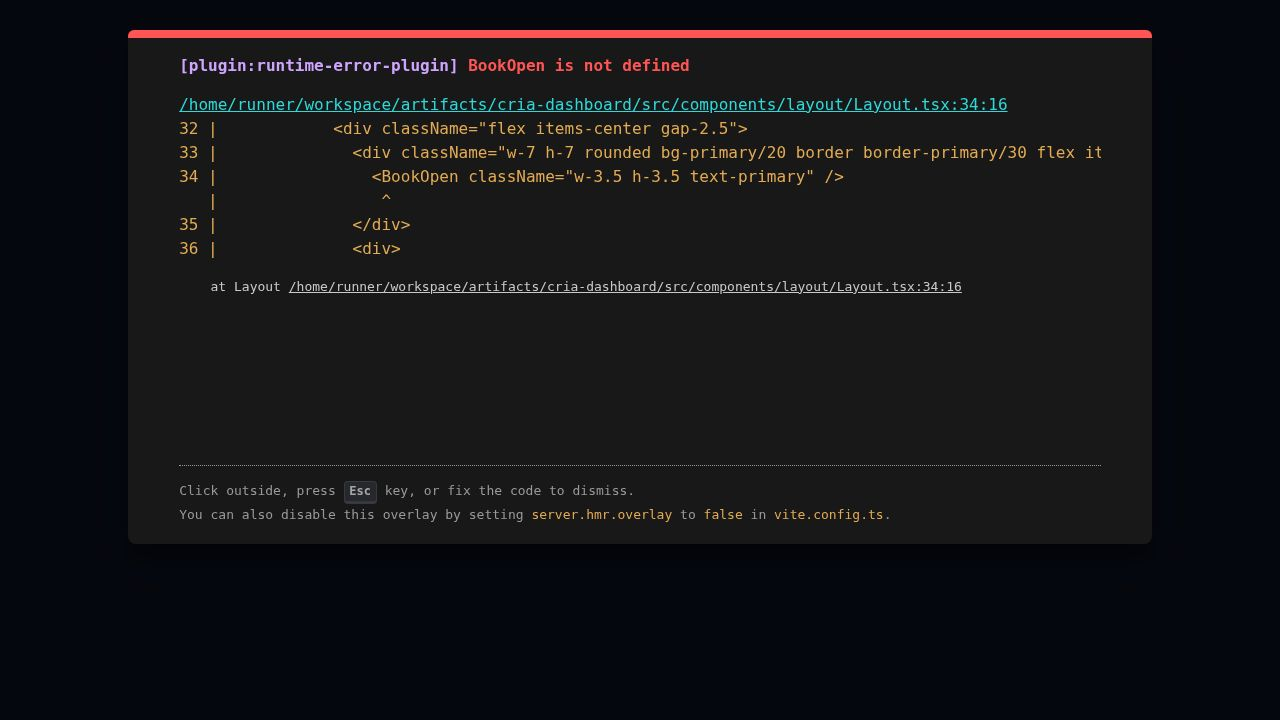
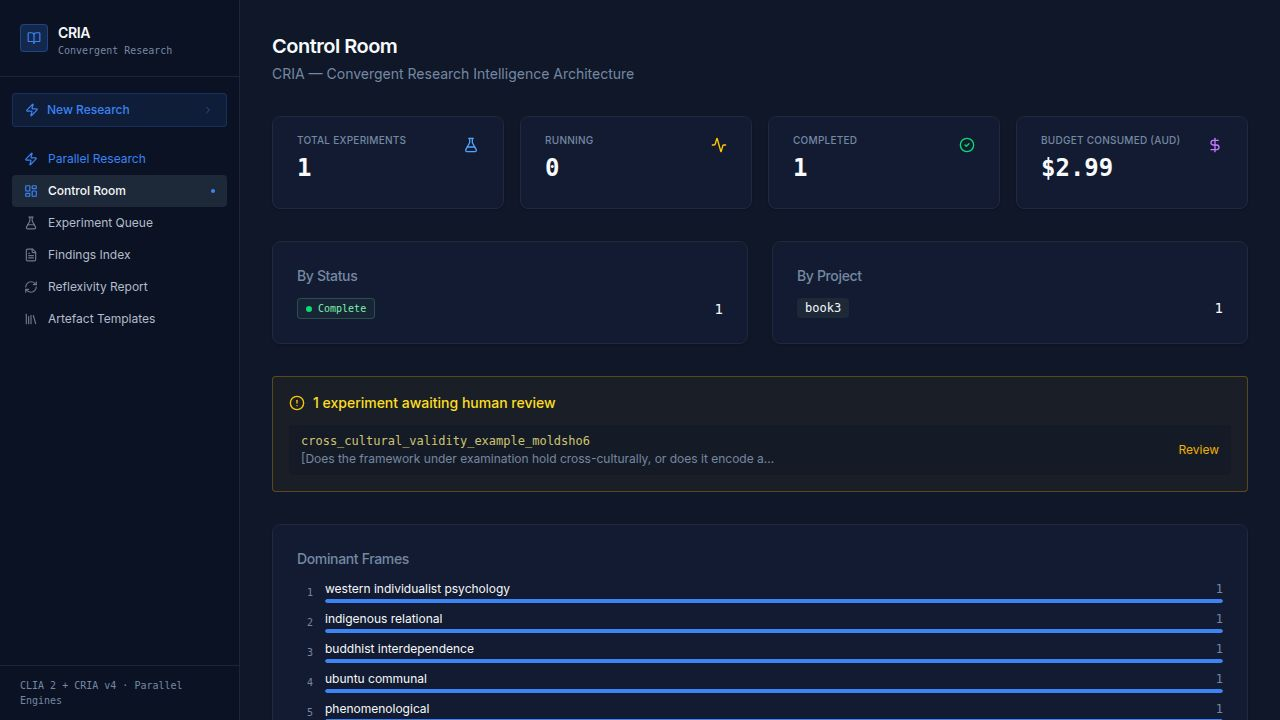
Fix errors when parsing empty abstract or title fields
Correctly handle cases where PubMed and Arxiv API responses contain empty strings for title or abstract fields by using `(text or "")` to ensure proper parsing.

Replit-Commit-Author: Agent
Replit-Commit-Session-Id: 191d6ddb-77c8-49e8-93e7-cdf24c376fc4
Replit-Commit-Checkpoint-Type: full_checkpoint
Replit-Commit-Event-Id: 73a5d113-ec50-44e2-8db9-8717b03e529d
Replit-Commit-Screenshot-Url: https://storage.googleapis.com/screenshot-production-us-central1/d54542fa-70d1-4299-aef4-6f64dc49ea62/191d6ddb-77c8-49e8-93e7-cdf24c376fc4/UFOC3Ku
Replit-Helium-Checkpoint-Created: true

diff --git a/artifacts/cria-v4/main.py b/artifacts/cria-v4/main.py
@@ -430,9 +430,9 @@ class PubMedAPI:
                 results = []
                 for article in root.findall(".//PubmedArticle"):
                     title_elem = article.find(".//ArticleTitle")
-                    title = title_elem.text if title_elem is not None else ""
+                    title = (title_elem.text or "") if title_elem is not None else ""
                     abstract_elem = article.find(".//Abstract/AbstractText")
-                    abstract = abstract_elem.text if abstract_elem is not None else ""
+                    abstract = (abstract_elem.text or "") if abstract_elem is not None else ""
                     authors = []
                     for author in article.findall(".//Author"):
                         last = author.find("LastName")
@@ -473,12 +473,12 @@ class ArxivAPI:
                 results = []
                 for entry in root.findall(".//atom:entry", ns):
                     title_elem = entry.find("atom:title", ns)
-                    title = title_elem.text.strip() if title_elem is not None else ""
+                    title = (title_elem.text or "").strip() if title_elem is not None else ""
                     summary_elem = entry.find("atom:summary", ns)
-                    abstract = summary_elem.text.strip() if summary_elem is not None else ""
+                    abstract = (summary_elem.text or "").strip() if summary_elem is not None else ""
                     authors = [a.text for a in entry.findall("atom:author/atom:name", ns) if a.text]
                     published_elem = entry.find("atom:published", ns)
-                    year = published_elem.text[:4] if published_elem is not None else ""
+                    year = (published_elem.text or "")[:4] if published_elem is not None else ""
                     results.append({
                         "title": title,
                         "abstract": abstract[:500],
@@ -626,7 +626,7 @@ class C1_Empirical(BaseChannel):
 
         papers_text = "\n\n".join(
             f"- {p.get('title', '')} ({p.get('year', '')}) — "
-            f"{p.get('abstract', '')[:200]}"
+            f"{(p.get('abstract') or '')[:200]}"
             for p in unique[:8]
         )
 
@@ -691,7 +691,7 @@ class C2_Phenomenological(BaseChannel):
                 papers.extend(r)
 
         papers_text = "\n\n".join(
-            f"- {p.get('title', '')} — {p.get('abstract', '')[:200]}"
+            f"- {p.get('title', '')} — {(p.get('abstract') or '')[:200]}"
             for p in papers[:6]
         ) if papers else "No phenomenological literature retrieved."
 
@@ -1079,7 +1079,7 @@ class C8_Computational(BaseChannel):
         results = await self.arxiv.search(comp_query, max_results=8)
 
         papers_text = "\n\n".join(
-            f"- {p.get('title', '')}: {p.get('abstract', '')[:200]}"
+            f"- {p.get('title', '')}: {(p.get('abstract') or '')[:200]}"
             for p in results[:6]
         ) if results else "Limited computational literature retrieved."
 
@@ -1531,8 +1531,8 @@ class MetaCognitiveLayer:
             for f in findings[:8]
         )
 
-        academic_text = academic_reading.get("reading", "")[:1500]
-        experimental_text = experimental_reading.get("reading", "")[:1500]
+        academic_text = (academic_reading.get("reading") or "")[:1500]
+        experimental_text = (experimental_reading.get("reading") or "")[:1500]
 
         prompt = self._get_mutated_prompt(strategy, base_prompt)
         prompt += (